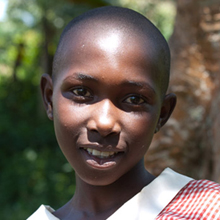
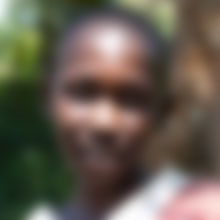
zobrazeni fotek deti na webu

diff --git a/wp/wordpress/wp-content/themes/quora/css/theme.css b/wp/wordpress/wp-content/themes/quora/css/theme.css
@@ -650,9 +650,9 @@ textarea#comment {
 /* childrens list */
 #childrens 							{ max-width: 880px; margin: 0 auto; padding: 30px 0; }
 #childrens .children 				{ float: left; width: 200px; margin: 10px; } 
-#childrens .children .bubble 		{ border-radius: 50%; overflow: hidden; border: 6px solid #e9e2cb; }
+#childrens .children .bubble 		{ width: 200px; height: 200px; border-radius: 50%; overflow: hidden; border: 6px solid #e9e2cb; }
 #childrens .children span 			{ display: block; text-align: center; }
-#childrens .children img 			{ width: 200px; }
+#childrens .children img 			{ width: 200px; min-height: 200px; }
 
 /* children profile */
 #profile							{ margin: 0 auto; width: 820px; padding: 20px 0 0; font-family: Lato, sans-serif; } 

diff --git a/aplication/app/presenters/jsonPresenter.php b/aplication/app/presenters/jsonPresenter.php
@@ -14,6 +14,22 @@ class jsonPresenter extends BasePresenter
 	    $this->deti = $this->context->diteModel;
 	}
 
+	/* vrati url fotky
+	 * @param {string} - seralizovana url fotky
+	 * @returns {string} - url fotky
+	*/
+	private function _getPhotoUrl($photo) {
+
+		if($photo) {
+			$photoUrl = unserialize($photo);
+			$profilePhoto = $this->deti->sestavUrlProfiloveFotky($photoUrl);
+		}
+		else {
+			$profilePhoto = null;
+		}
+
+		return $profilePhoto;
+	}
 
 	/*
 	 * Vypise deti k adobci	
@@ -23,16 +39,20 @@ class jsonPresenter extends BasePresenter
 
 		$this->payload->data = array();
 		$list = $this->deti->zobrazDetiKAdopci();
-		$i = 0;		
+		$i = 0;	
 
 		foreach ($list as $item) {
 
 			// zobrazime pouze jmeno
 			$name = explode(" ", $item['jmeno']);
 
+			// dostaneme url na profilovou fotku
+			$profilePhoto = $this->_getPhotoUrl($item['profilovaUrlSerializovana']);
+
 			$data = array(
 				"id" => $item['idDite'], 
-				"jmeno" => $name[0]
+				"jmeno" => $name[0],
+				"fotka" => $profilePhoto
 			);
 			
             $this->payload->data[$i] = $data;
@@ -61,9 +81,14 @@ class jsonPresenter extends BasePresenter
 			// zobrazime pouze jmeno
 			$name = explode(" ", $item['jmeno']);
 
+			// dostaneme url na profilovou fotku
+			$profilePhoto = $this->_getPhotoUrl($item['profilovaUrlSerializovana']);
+
 			$data = array(
-				"id" => $item['idDite'], 
-				"jmeno" => $name[0]
+				"id" => $item['idDite'],
+				"vystavene" => $item['vystavene'], 
+				"jmeno" => $name[0],
+				"fotka" => $profilePhoto
 			);
 			
             $this->payload->data[$i] = $data;
@@ -85,13 +110,16 @@ class jsonPresenter extends BasePresenter
 
 			$bio = "Ahoj jmenuji se Agnes, ale všichni mi říkají Agii. Bydlím s mámou, mladší sestrou a bratrancem v malém domku, který se nám podařilo opravit díky vaší pomoci. Tatá mi umřel když mi bylo 14 a moc mi chybí. Máme pracuje na poli, takže když nejsem ve škole, snažím se jí pomáhat.";
 
+			$profilePhoto = $this->_getPhotoUrl($item['profilovaUrlSerializovana']);
+
 			$this->payload->data = array(
 				"id" => $item['idDite'], 
 				"jmeno" => $item['jmeno'],
 				"bio" => $bio,
 				"narozeni" => $item['datumNarozeni'],
 				"pohlavi" => $item['pohlavi'],
-				"skola" => $item['skolaNazev']	
+				"skola" => $item['skolaNazev'],
+				"fotka" => $profilePhoto	
 			);
 		
         }     

diff --git a/aplication/app/model/diteModel.php b/aplication/app/model/diteModel.php
@@ -31,7 +31,7 @@ class DiteModel extends Model
 	//metoda, ktera zobrazuje adoptovane deti
 	public function zobrazAdoptovaneDeti()
 	{
-    	return $this->db->fetchAll('SELECT * FROM relaceditesponzor AS r , dite AS d WHERE r.diteIdDite = d.idDite');
+    	return $this->db->fetchAll('SELECT * FROM relaceditesponzor AS r , dite AS d WHERE r.diteIdDite = d.idDite and d.vystavene = 1');
 
 	}
 
